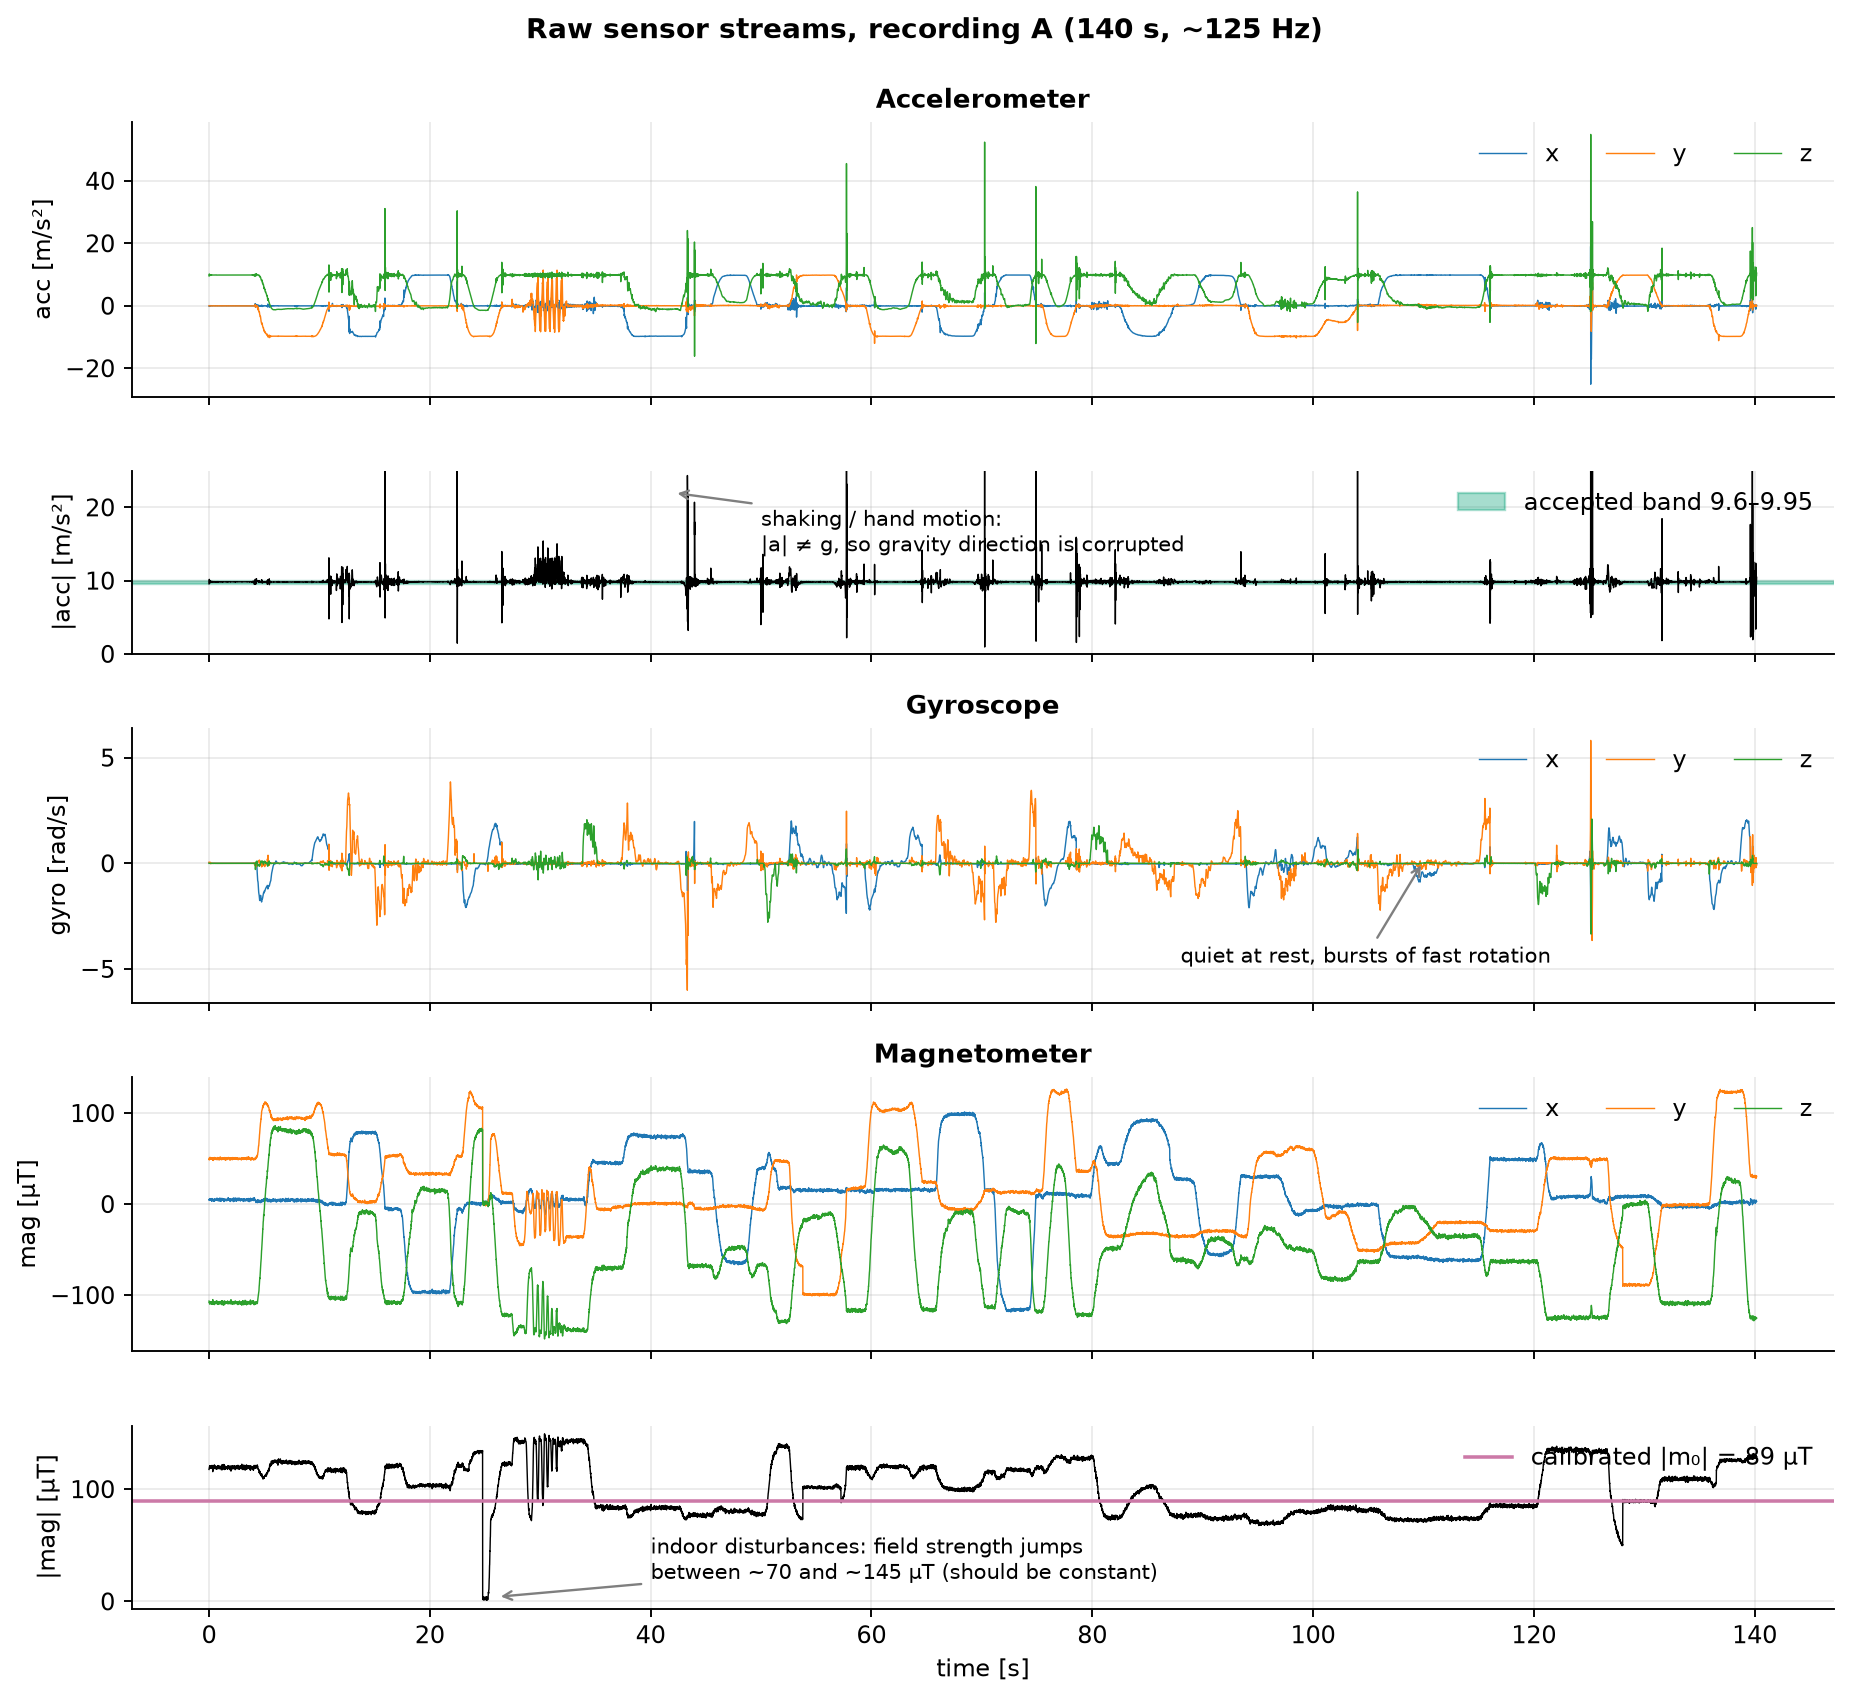
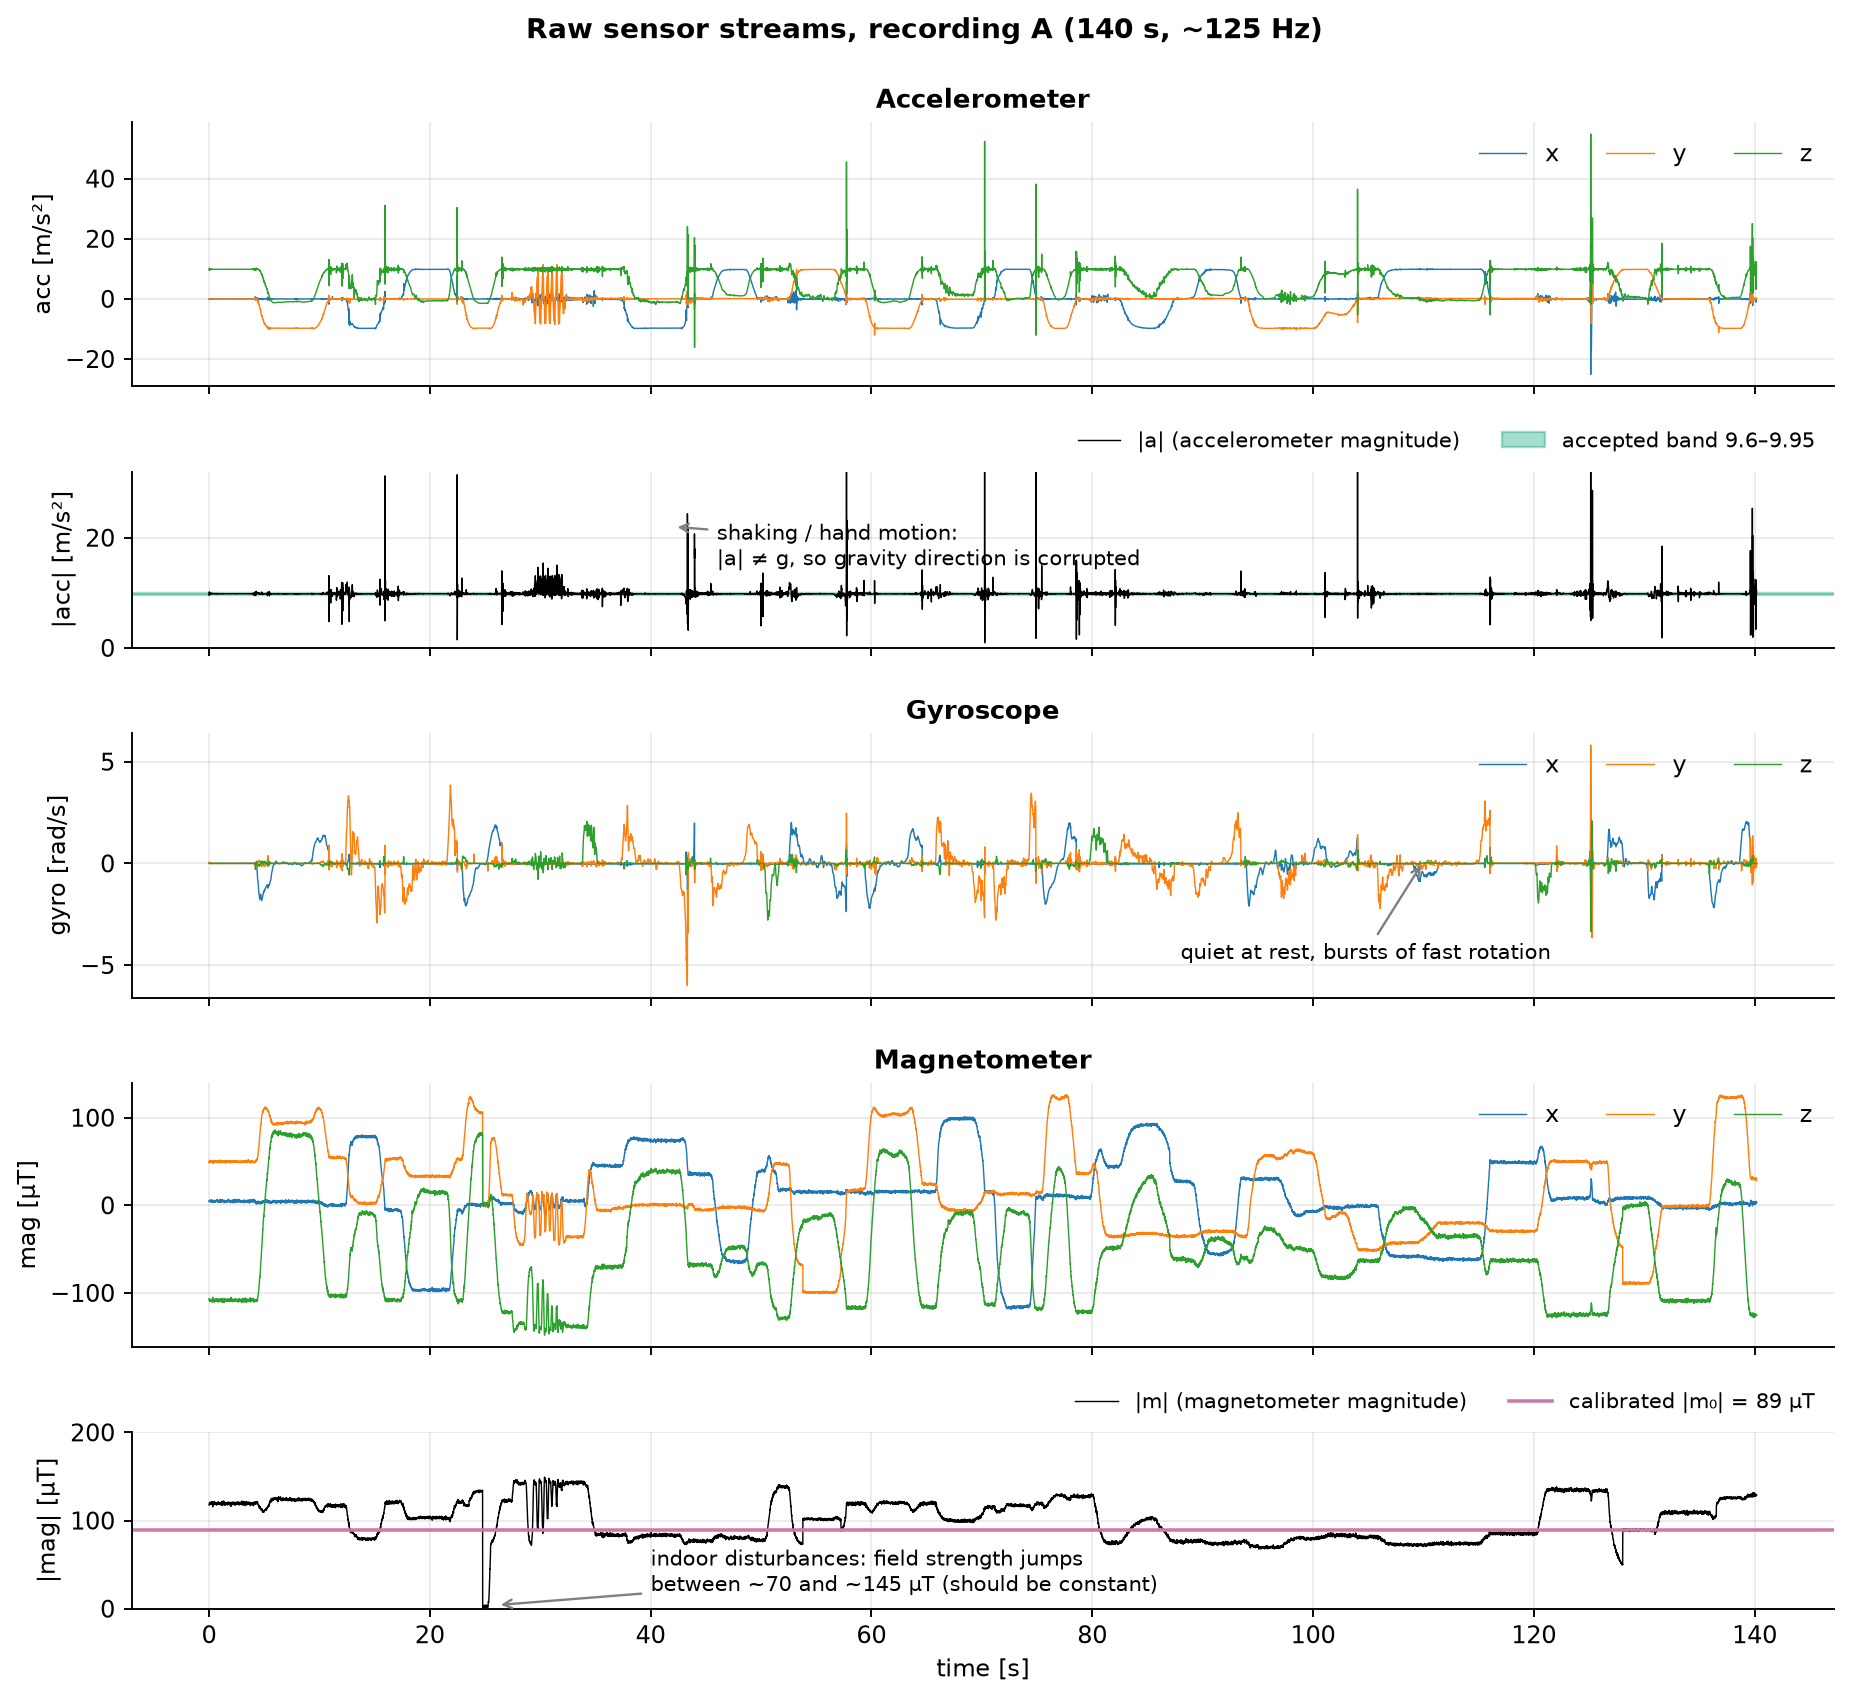
Restore process-model finding (credited as found while reproducing this project); label |a| and |m| in raw-streams figure

diff --git a/scripts/make_figures.py b/scripts/make_figures.py
@@ -39,9 +39,9 @@ def fig_sensor_streams(m, r):
     fig, ax = plt.subplots(5, 1, figsize=(11, 10), sharex=True, height_ratios=[1.2, .8, 1.2, 1.2, .8])
     ax[0].plot(t, m.acc.T, lw=.6); ax[0].set_ylabel('acc [m/s²]'); ax[0].set_title('Accelerometer')
     ax[0].legend(['x', 'y', 'z'], ncol=3, loc='upper right')
-    ax[1].plot(t, an, color='k', lw=.6); ax[1].axhspan(*default_config().acc_gate, color=C['acc'], alpha=.35, label='accepted band 9.6–9.95')
-    ax[1].set_ylim(0, 25); ax[1].set_ylabel('|acc| [m/s²]'); ax[1].legend(loc='upper right')
-    ax[1].annotate('shaking / hand motion:\n|a| ≠ g, so gravity direction is corrupted', xy=(42, 22), xytext=(50, 14), fontsize=9,
+    ax[1].plot(t, an, color='k', lw=.6, label='|a| (accelerometer magnitude)'); ax[1].axhspan(*default_config().acc_gate, color=C['acc'], alpha=.35, label='accepted band 9.6–9.95')
+    ax[1].set_ylim(0, 32); ax[1].set_ylabel('|acc| [m/s²]'); ax[1].legend(loc='lower right', bbox_to_anchor=(1, 1), ncol=2, frameon=False, fontsize=9)
+    ax[1].annotate('shaking / hand motion:\n|a| ≠ g, so gravity direction is corrupted', xy=(42, 22), xytext=(46, 15), fontsize=9,
                    arrowprops=dict(arrowstyle='->', color=C['grey']))
     ax[2].plot(t, m.gyr.T, lw=.6); ax[2].set_ylabel('gyro [rad/s]'); ax[2].set_title('Gyroscope')
     ax[2].legend(['x', 'y', 'z'], ncol=3, loc='upper right')
@@ -49,8 +49,8 @@ def fig_sensor_streams(m, r):
                    arrowprops=dict(arrowstyle='->', color=C['grey']))
     ax[3].plot(t, m.mag.T, lw=.6); ax[3].set_ylabel('mag [µT]'); ax[3].set_title('Magnetometer')
     ax[3].legend(['x', 'y', 'z'], ncol=3, loc='upper right')
-    ax[4].plot(t, mn, color='k', lw=.6); ax[4].axhline(np.linalg.norm(cal.m0), color=C['mag'], lw=1.5, label=f'calibrated |m₀| = {np.linalg.norm(cal.m0):.0f} µT')
-    ax[4].set_ylabel('|mag| [µT]'); ax[4].set_xlabel('time [s]'); ax[4].legend(loc='upper right')
+    ax[4].plot(t, mn, color='k', lw=.6, label='|m| (magnetometer magnitude)'); ax[4].axhline(np.linalg.norm(cal.m0), color=C['mag'], lw=1.5, label=f'calibrated |m₀| = {np.linalg.norm(cal.m0):.0f} µT')
+    ax[4].set_ylabel('|mag| [µT]'); ax[4].set_xlabel('time [s]'); ax[4].set_ylim(0, 200); ax[4].legend(loc='lower right', bbox_to_anchor=(1, 1), ncol=2, frameon=False, fontsize=9)
     ax[4].annotate('indoor disturbances: field strength jumps\nbetween ~70 and ~145 µT (should be constant)', xy=(26, 4), xytext=(40, 20), fontsize=9,
                    arrowprops=dict(arrowstyle='->', color=C['grey']))
     fig.suptitle(f'Raw sensor streams, recording A ({t[-1]:.0f} s, ~125 Hz)', fontweight='bold', y=.995)

diff --git a/README.md b/README.md
@@ -4,7 +4,7 @@
 
 ![MATLAB](https://img.shields.io/badge/MATLAB%2FOctave-offline%20code%20checked-orange) ![Python](https://img.shields.io/badge/Python-numpy%20%7C%20scipy%20%7C%20matplotlib-blue) ![License](https://img.shields.io/badge/license-MIT-green)
 
-## TLDR (In brief)
+## TLDR
 
 ![Three 3D phones side by side: the phone's own estimate, our EKF, and gyro integration only](results/animations/orientation_comparison.gif)
 
@@ -50,7 +50,7 @@ docs/                       derivation.md, conventions.md, findings.md
 | P6 | **Is the filter itself right?** | No ground truth exists; we only have the phone's own estimate to compare with. |
 
 ![Raw sensor streams](results/figures/sensor_streams.png)
-*What this shows: the raw input the filter gets (recording A), one row per signal. Rows 1–2: accelerometer and its magnitude; at rest the magnitude sits at gravity (≈9.8 m/s², inside the green accepted band) and spikes whenever the hand moves, so those samples are not a clean gravity reading (P2). Row 3: gyroscope. Rows 4–5: magnetometer and its magnitude; it should stay at the calibrated Earth-field value (line) but jumps in steps near magnets and metal (P3).*
+*What this shows: the raw input the filter gets (recording A), one row per signal. Rows 1–2: accelerometer and its magnitude (black line, |a|); at rest the magnitude sits at gravity (≈9.8 m/s², inside the green accepted band) and spikes whenever the hand moves, so those samples are not a clean gravity reading (P2). Row 3: gyroscope. Rows 4–5: magnetometer and its magnitude; the black line is |m|; it should stay at the calibrated Earth-field value (coloured line) but jumps in steps near magnets and metal (P3).*
 
 ## Approach we took
 
@@ -113,6 +113,8 @@ Mean and covariance from a stationary recording give $R_a,R_\omega,R_m$.
 **Ablation** (filters start from the reference so initial misalignment does not mask effects). The accelerometer bounds tilt (48.5° → 2.3°), its gate improves it further (2.05°), and the magnetometer is what gives heading (median error 70° with accelerometer only, 11° with magnetometer added).
 
 ![Ablation](results/figures/ablation.png)
+
+**A modelling bug, found while reproducing this project.** It was not noticed in the original course submission (the report's eq. 3 and Appendix A.1 use the template's `Somega`/`Sq` unchanged); we found it while rebuilding the project for this repo. The template's gyro process model, $\dot q=\tfrac12 q\otimes\omega$, is only valid for $q$ body→world, but the measurement model $y=Q(q)v$ uses $q$ world→body, whose kinematics is $\dot q=-\tfrac12 L(\omega)q$. A 2 s gyro-only prediction from the reference orientation had a tilt error with a 90th percentile of 167° for the original model and 6° for the corrected one. The accelerometer's tiny covariance hid this for tilt, but not for heading. Effect on the full filter:
 
 | Recording | Gyro process model | Tilt error, RMSE | Tilt error, max |
 |---|---|---|---|

diff --git a/docs/findings.md b/docs/findings.md
@@ -10,6 +10,8 @@ The lab calibration constants come from `calAcc/calGyr/calMag` stored with the r
 The MATLAB code in `src/matlab` is a refactor of that code. It was run under **GNU Octave 11.3** (not MATLAB itself): `reproduceMetrics.m` gives the same metrics as the Python port (tilt RMSE 2.05°, heading RMSE 54.72°) and reproduces the stored output with the course-style process model to 8.8e-9. The live script `runEkfLive.m` could not be run (needs the phone, the course jar and `OrientationView`).
 
 ## 2. The course-style process model is inconsistent with the measurement model
+**Found while reproducing this project for this repo, not during the course:** the submitted report (eq. 3, Appendix A.1) uses the template's `Somega`/`Sq` unchanged.
+
 The template's $S(\omega)$ is the matrix of *right* multiplication, $\dot q=\tfrac12 q\otimes\omega$, which holds for $q$ body→world.
 The measurement model $y=Q(q)v_0$ uses $q$ world→body. Starting from the phone's own orientation and integrating the gyro for 2 s, the tilt error
 (median / 90th percentile over 23 windows, recording A) is 33° / 167° with the template matrix and 2.5° / 6.1° with $S=-L(\omega)$.
